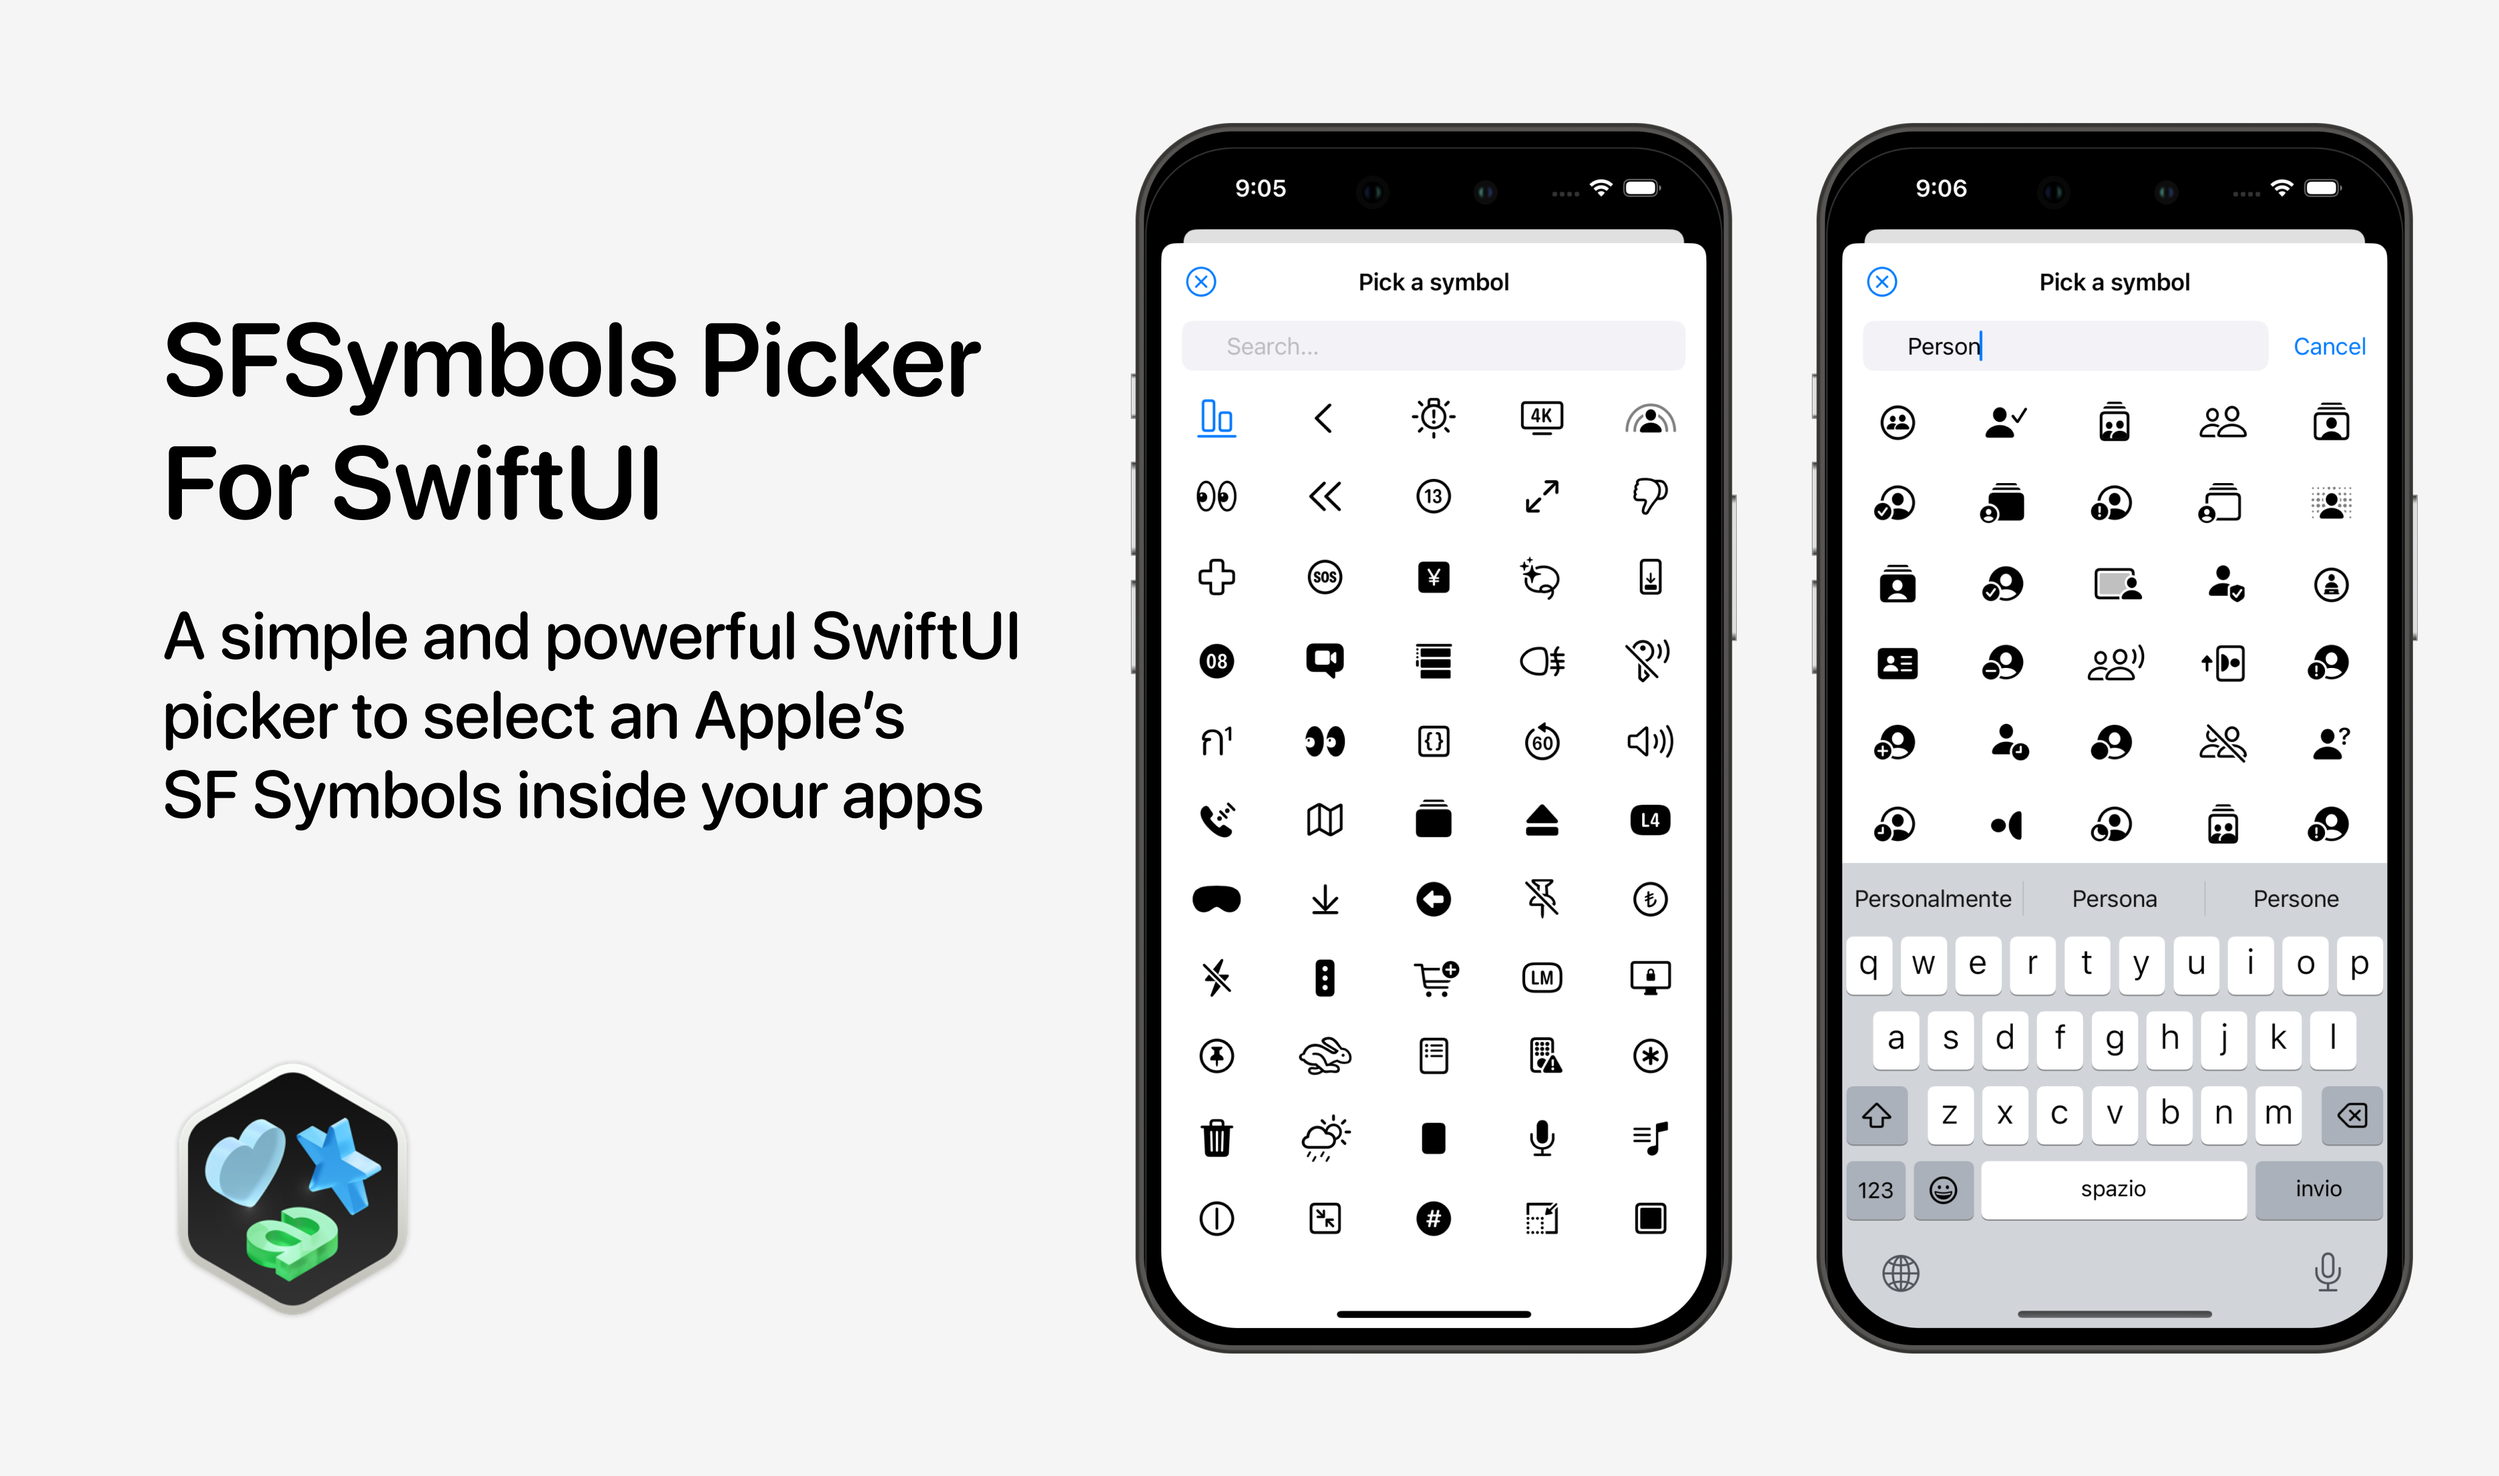
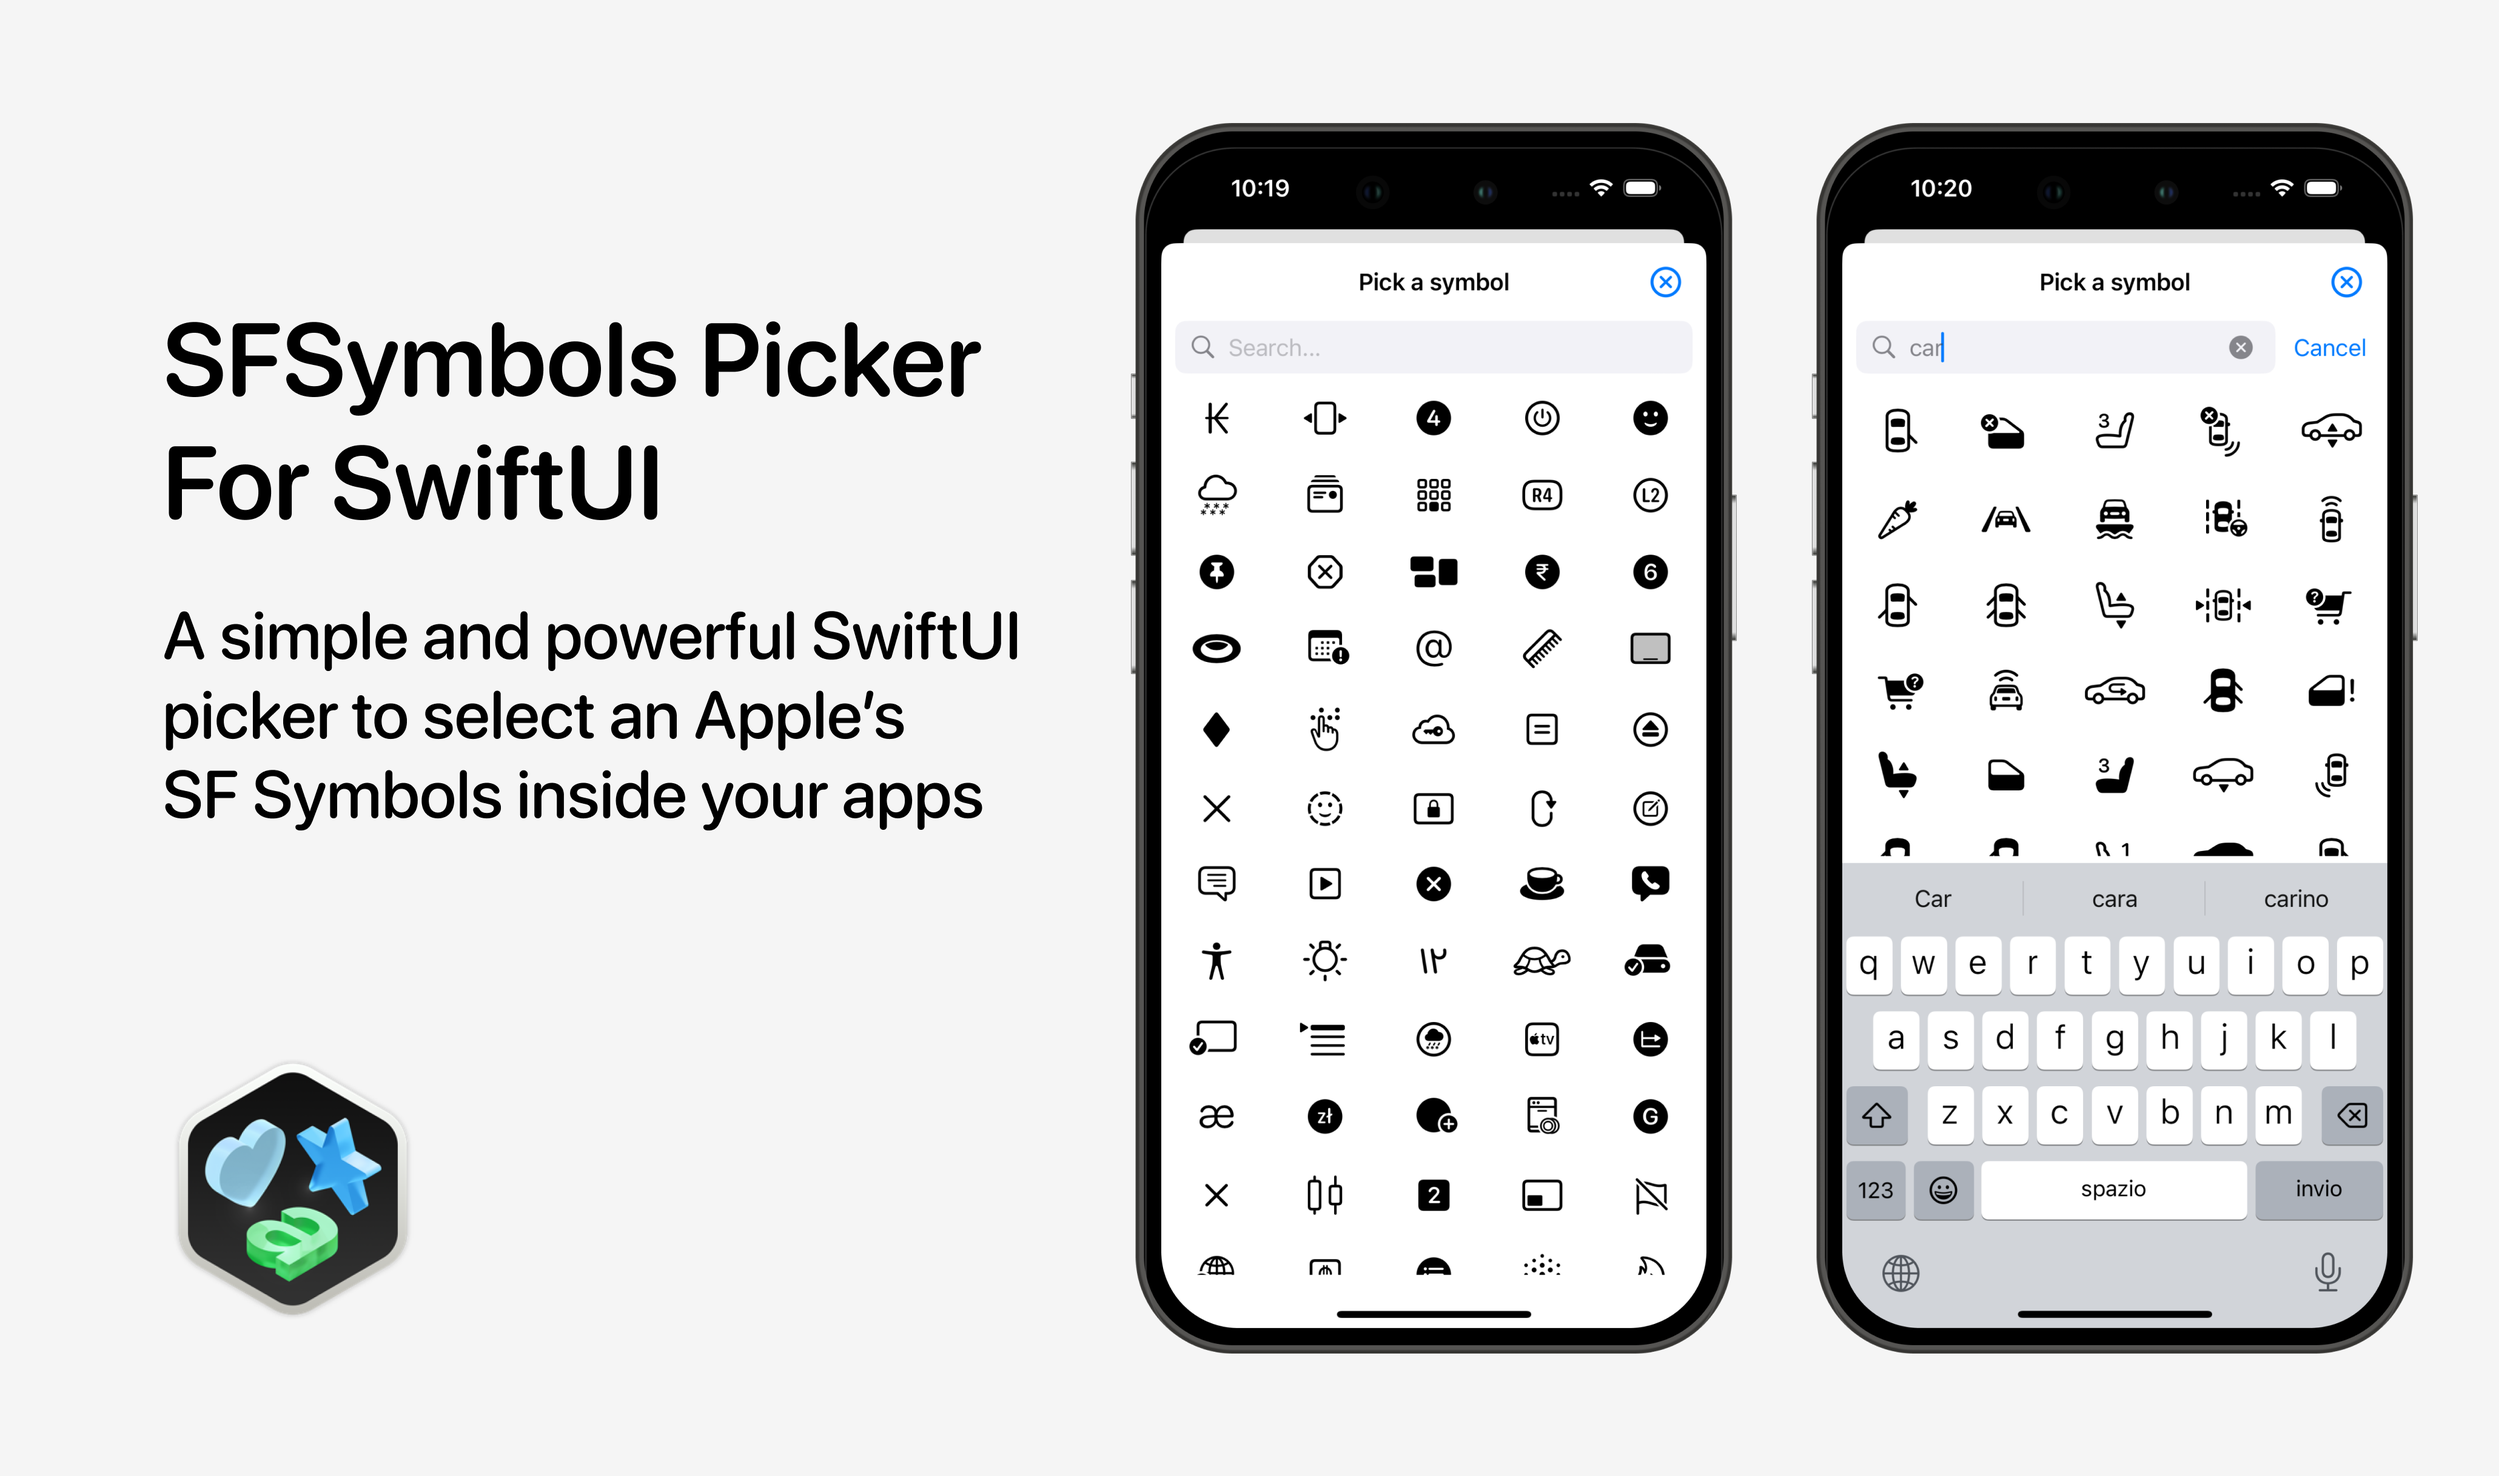
Updated README for 1.0.5

diff --git a/README.md b/README.md
@@ -5,9 +5,12 @@ SFSymbolsPicker is a simple and powerful SwiftUI picker that let you pick Apple'
 ![SF Symbols Picker](./Resources/SFSymbolsPicker.png)
 
 ## Changelog
-### 1.0.4
+### 1.0.5
 - Optimized symbol loading performances
 - Improved search bar
+
+### 1.0.4
+- Fixed visibility bug for SymbolPicker view
 
 ### 1.0.3
 - Added the ability to automatically dismiss the view when a symbol is selected
